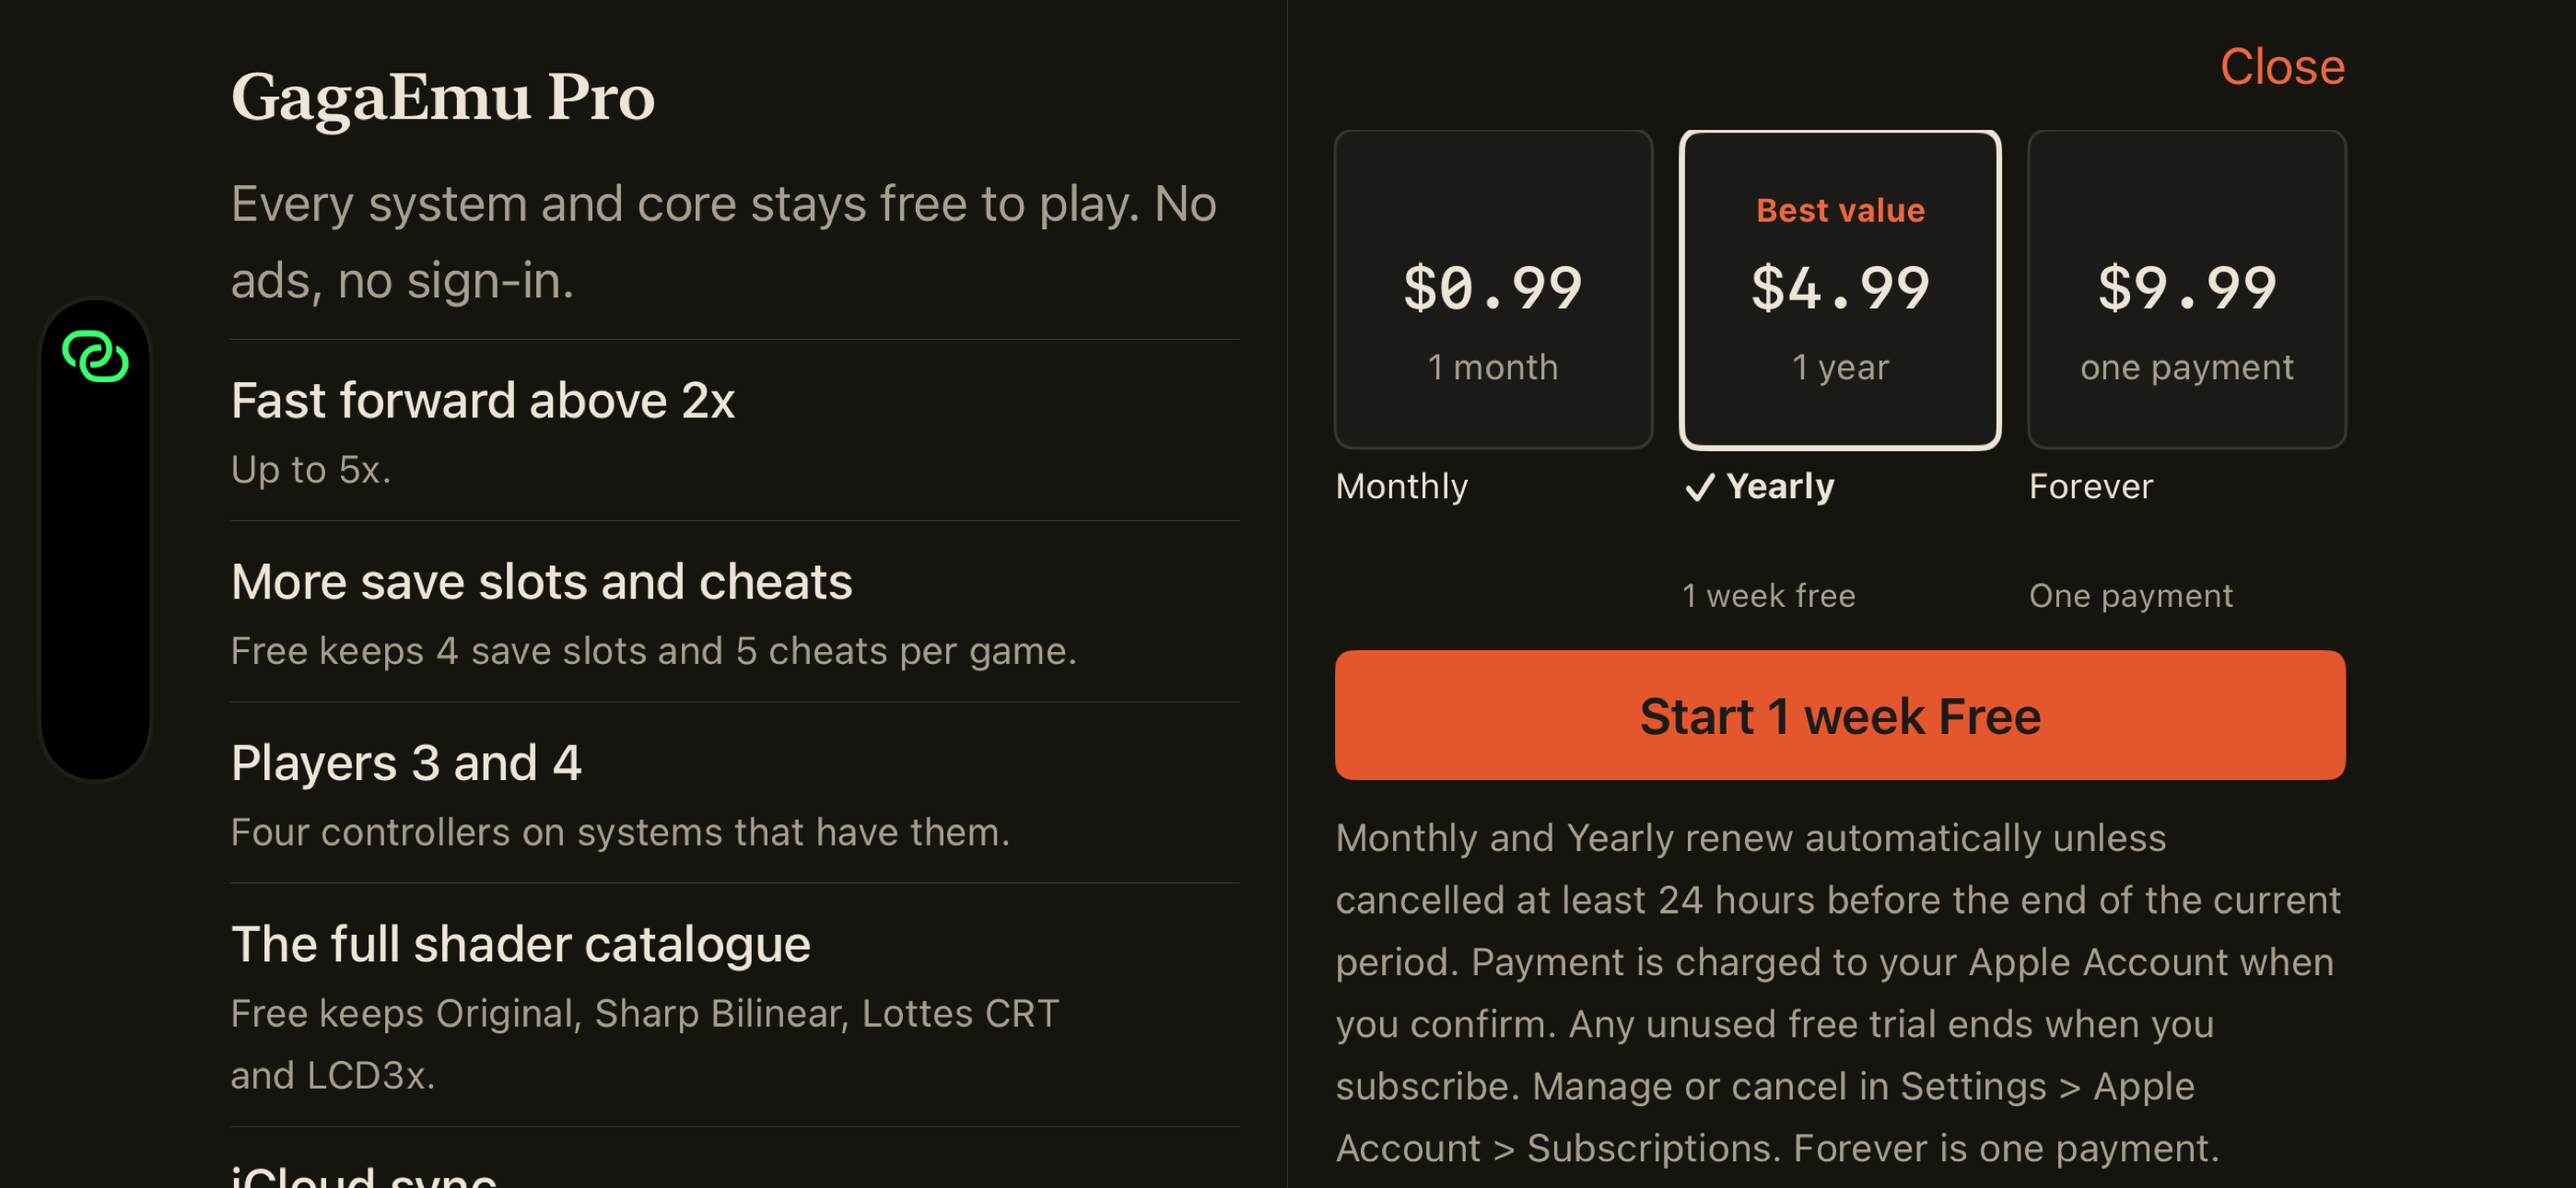
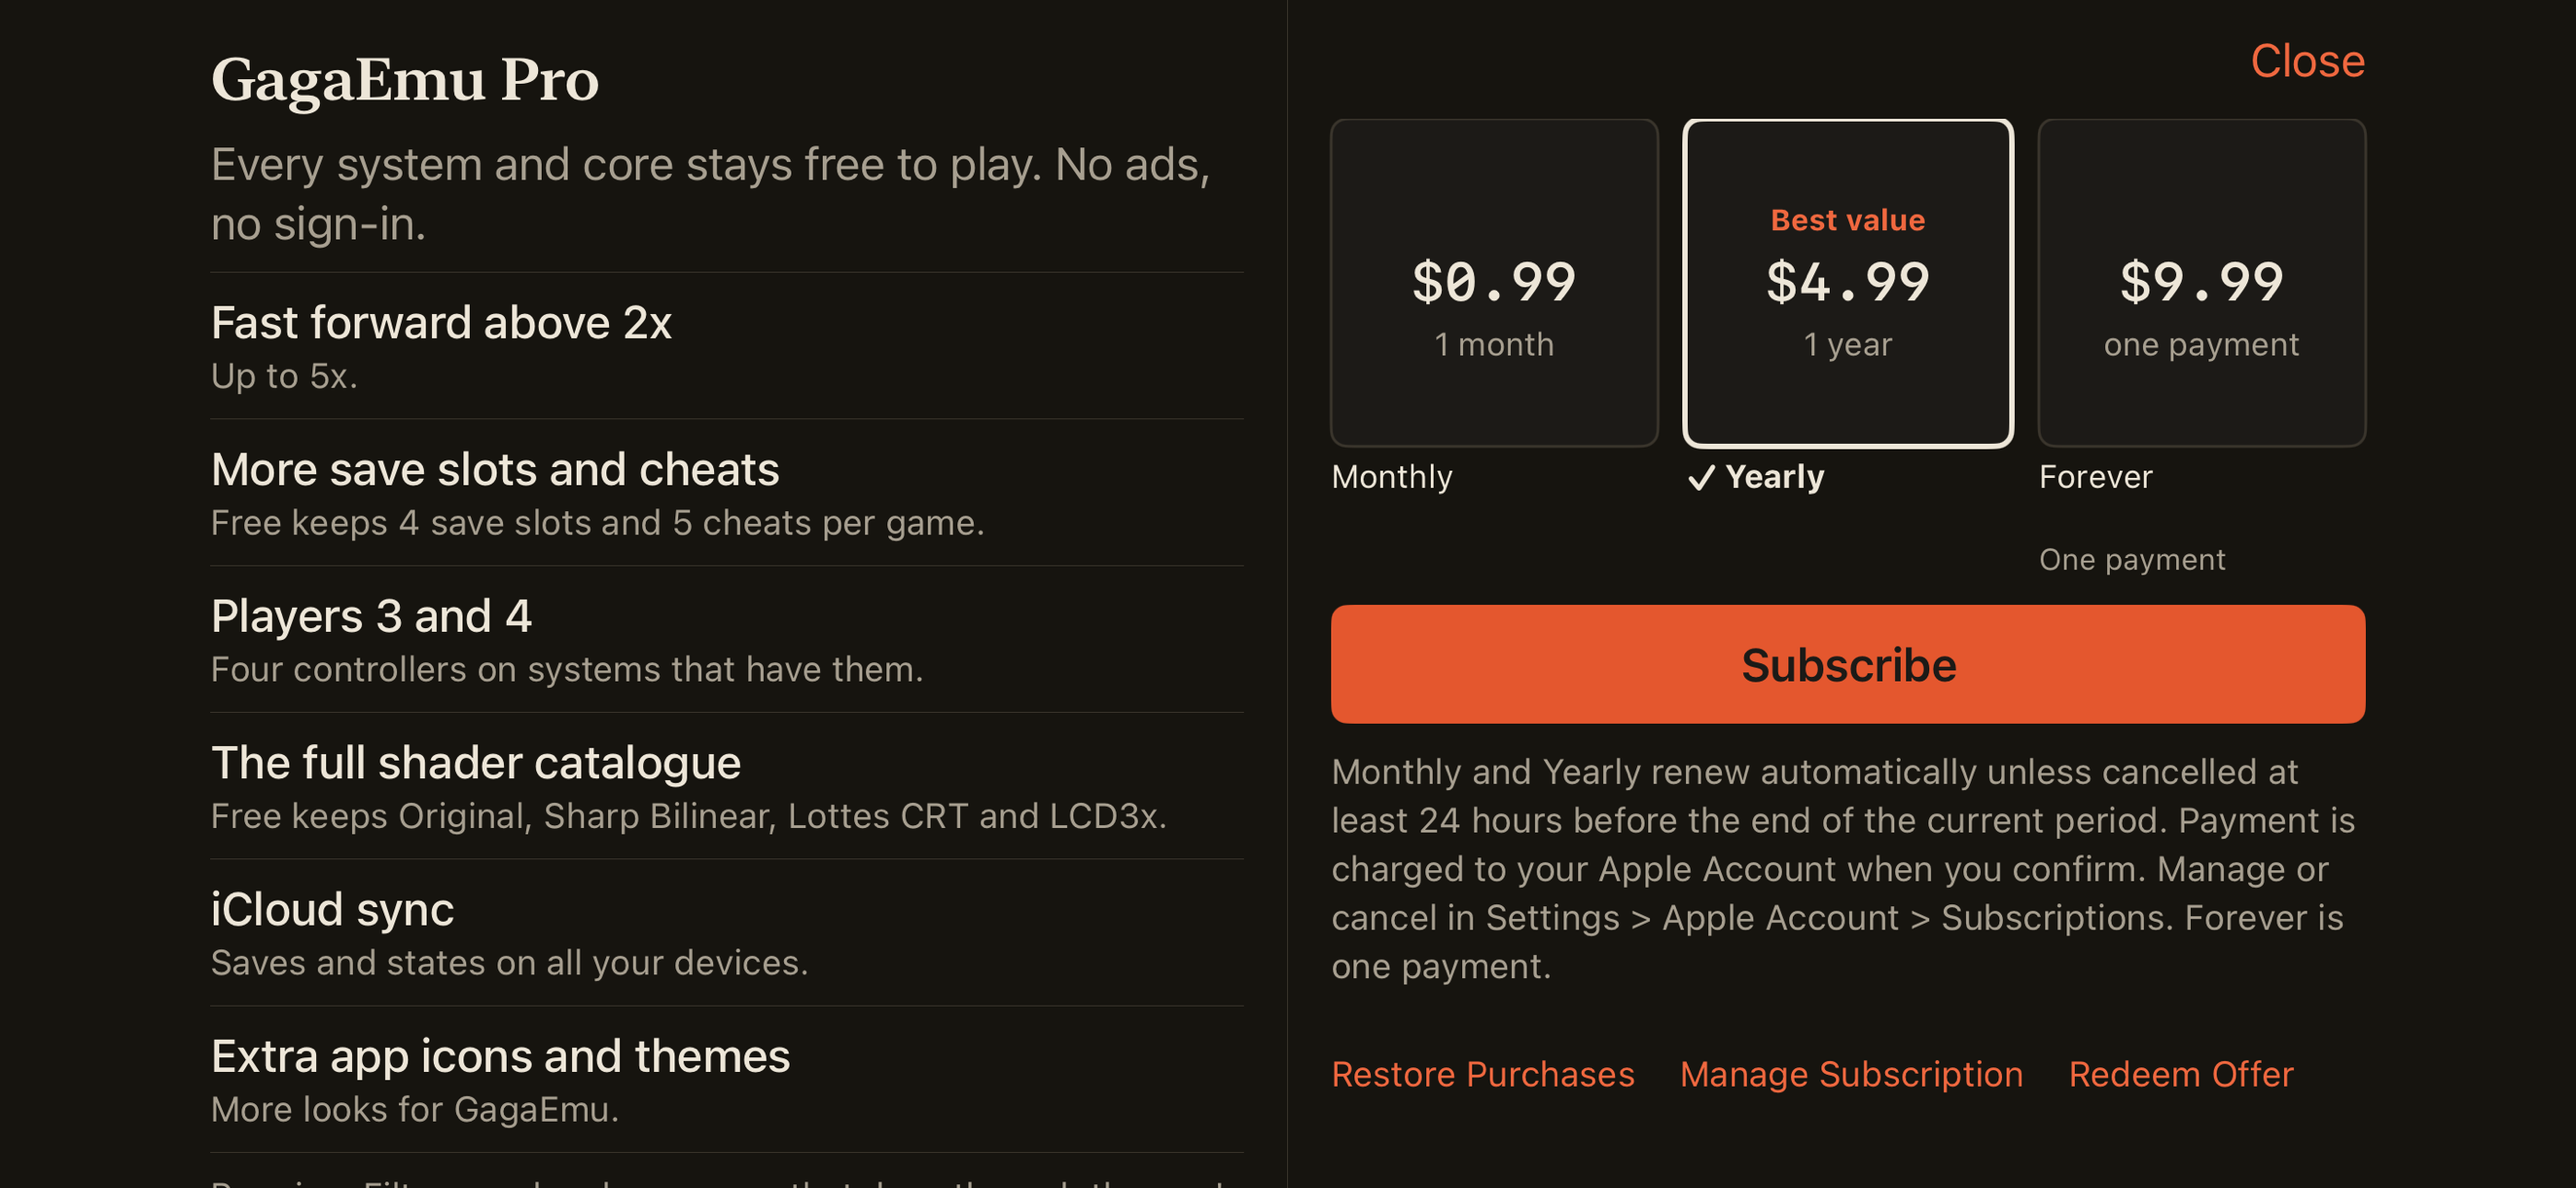
fix(store): no free trial anywhere (App Store Connect has none): Debug StoreKit config, paywall disclosure and the paywall review images, in Resources/GagaEmuPro.storekit, Resources/Localizable.xcstrings, Sources/UI/Settings/GagaPlusView.swift and design/store/iap

diff --git a/Sources/UI/Settings/GagaPlusView.swift b/Sources/UI/Settings/GagaPlusView.swift
@@ -24,7 +24,7 @@ struct GagaPlusView: View {
         return base + " \(layerPathCores.formatted(.list(type: .and))) \(verb) own 3D picture, so filters do not apply there."
     }
 
-    static let disclosure = "Monthly and Yearly renew automatically unless cancelled at least 24 hours before the end of the current period. Payment is charged to your Apple Account when you confirm. Any unused free trial ends when you subscribe. Manage or cancel in Settings > Apple Account > Subscriptions. Forever is one payment."
+    static let disclosure = "Monthly and Yearly renew automatically unless cancelled at least 24 hours before the end of the current period. Payment is charged to your Apple Account when you confirm. Manage or cancel in Settings > Apple Account > Subscriptions. Forever is one payment."
 
     private let benefits: [(String, String)] = [
         ("Fast forward above 2x", "Up to 5x."),
